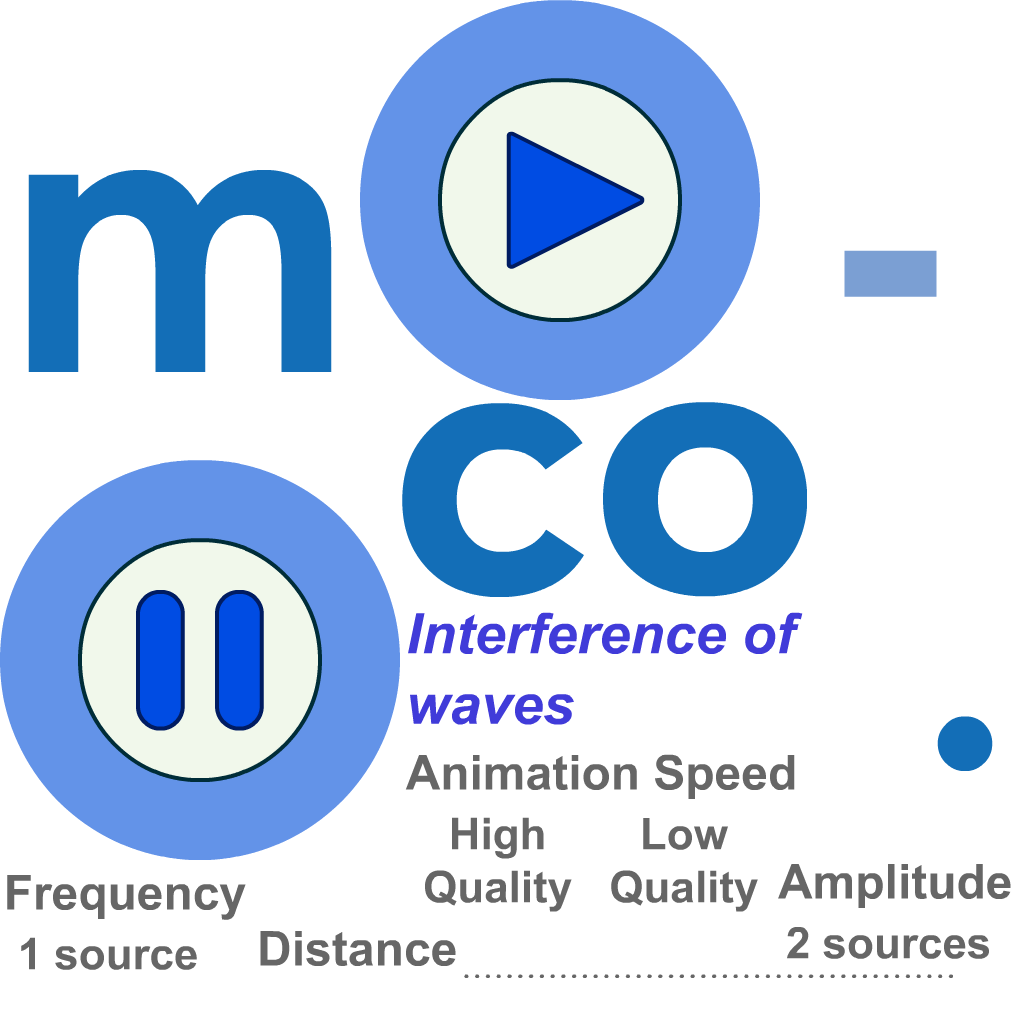
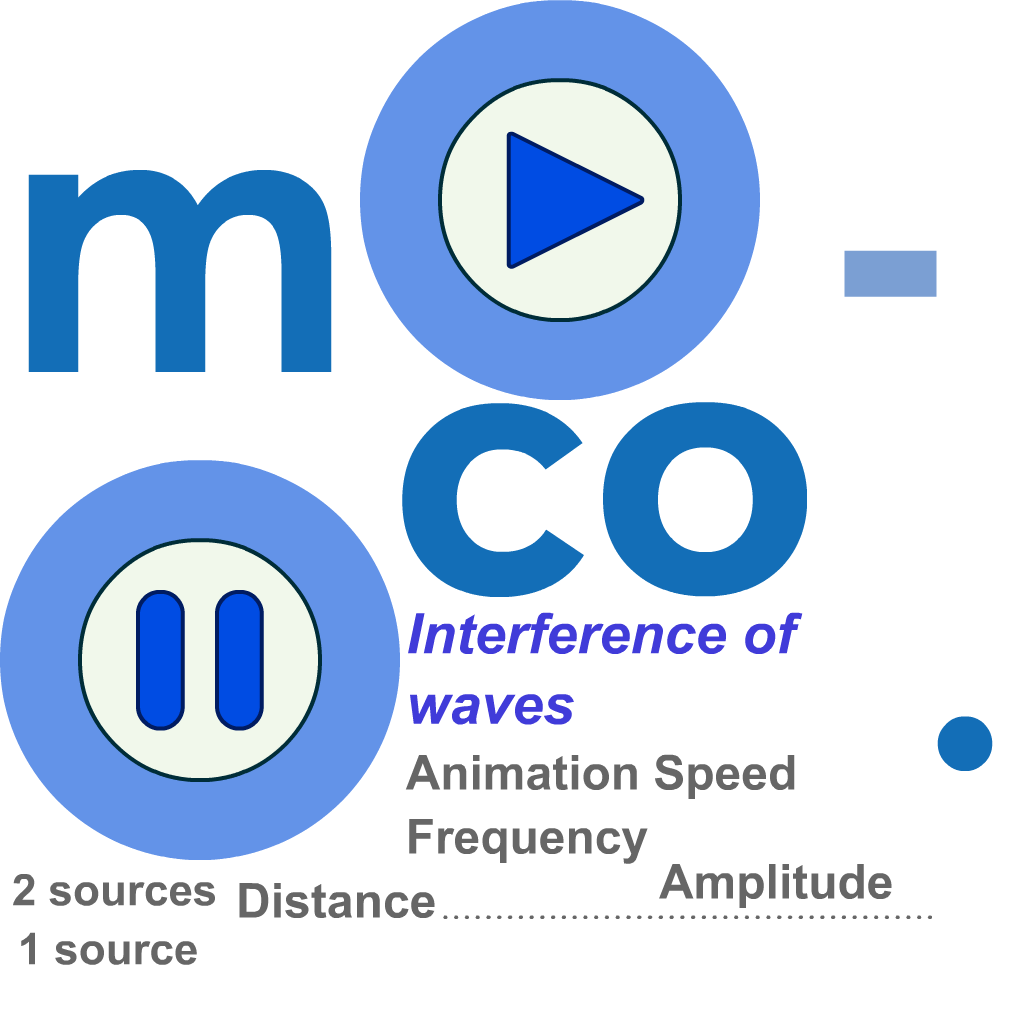
2023-07-28-16-19

Changed region(s): [[0.0, 0.7812, 1.0, 0.9688]]

diff --git a/interference.js b/interference.js
@@ -3,7 +3,7 @@
 var p; // shortcut to reference prototypes
 var lib={};var ss={};var img={};
 lib.ssMetadata = [
-		{name:"interference_atlas_1", frames: [[0,460,400,400],[360,0,400,400],[909,460,113,389],[402,402,405,195],[809,0,164,458],[0,0,358,458],[464,974,489,4],[402,599,505,141],[402,742,400,62],[0,926,217,57],[774,915,230,57],[402,806,192,110],[596,806,176,110],[774,851,243,62],[0,862,251,62],[253,918,209,62]]}
+		{name:"interference_atlas_1", frames: [[0,460,400,400],[360,0,400,400],[909,460,113,389],[402,402,405,195],[809,0,164,458],[0,0,358,458],[443,915,489,4],[402,599,505,141],[402,742,400,62],[0,921,217,57],[0,862,230,57],[655,851,243,62],[402,806,251,62],[232,870,209,62]]}
 ];
 
 
@@ -110,37 +110,23 @@ p.nominalBounds = new cjs.Rectangle(0,0,3439,924);
 
 
 
-(lib.CachedBmp_5 = function() {
+(lib.CachedBmp_3 = function() {
 	this.initialize(ss["interference_atlas_1"]);
 	this.gotoAndStop(11);
 }).prototype = p = new cjs.Sprite();
 
 
 
-(lib.CachedBmp_4 = function() {
+(lib.CachedBmp_2 = function() {
 	this.initialize(ss["interference_atlas_1"]);
 	this.gotoAndStop(12);
 }).prototype = p = new cjs.Sprite();
 
 
 
-(lib.CachedBmp_3 = function() {
-	this.initialize(ss["interference_atlas_1"]);
-	this.gotoAndStop(13);
-}).prototype = p = new cjs.Sprite();
-
-
-
-(lib.CachedBmp_2 = function() {
-	this.initialize(ss["interference_atlas_1"]);
-	this.gotoAndStop(14);
-}).prototype = p = new cjs.Sprite();
-
-
-
 (lib.CachedBmp_1 = function() {
 	this.initialize(ss["interference_atlas_1"]);
-	this.gotoAndStop(15);
+	this.gotoAndStop(13);
 }).prototype = p = new cjs.Sprite();
 // helper functions:
 
@@ -235,26 +221,26 @@ if (reversed == null) { reversed = false; }
 
 	// Layer_1
 	this.shape = new cjs.Shape();
[1 lines of base64/hex data omitted]
-	this.shape.setTransform(-19.449,-9.825,0.788,1.0556);
+	this.shape.graphics.f().s("#666666").ss(1,1,1).p("ABoAAQAAArgeAfQgfAegrAAQgqAAgfgeQgegfAAgrQAAgqAegfQAfgeAqAAQArAAAfAeQAeAfAAAqg");
+	this.shape.setTransform(-10.0098,3.9948,0.9615,0.9615);
 
 	this.shape_1 = new cjs.Shape();
-	this.shape_1.graphics.lf(["#FFFFFF","#999999","#FFFFFF"],[0,0.502,1],0,-10.9,0,11).s().p("AkXBaQgfAAgWgWQgWgWAAgfIAAgdQAAgfAWgWQAWgWAfAAIH9AAQAJAAAIACQAJgCAKAAQAlAAAaAaQAaAbAAAkQAAAlgaAZQgaAbglAAIgRgBQgJACgKAAg");
-	this.shape_1.setTransform(-19.449,-9.825,0.788,1.0556);
+	this.shape_1.graphics.rf(["#999999","#CCCCCC","#F8F8F8"],[0,0.471,1],0,0,0,0,0,10.5).s().p("AhJBJQgegeAAgrQAAgqAegeQAfgfAqAAQArAAAeAfQAfAeAAAqQAAArgfAeQgeAfgrAAQgqAAgfgfg");
+	this.shape_1.setTransform(-10.0098,3.9948,0.9615,0.9615);
 
 	this.shape_2 = new cjs.Shape();
[1 lines of base64/hex data omitted]
-	this.shape_2.setTransform(0,-6.3);
[1 lines of base64/hex data omitted]
+	this.shape_2.setTransform(-27.999,3.9755,0.788,0.8333);
 
 	this.shape_3 = new cjs.Shape();
[1 lines of base64/hex data omitted]
-	this.shape_3.setTransform(0,-6.3);
+	this.shape_3.graphics.lf(["#FFFFFF","#999999","#FFFFFF"],[0,0.502,1],0,-10.9,0,11).s().p("AkXBaQgfAAgWgWQgWgWAAgfIAAgdQAAgfAWgWQAWgWAfAAIH9AAQAJAAAIACQAJgCAKAAQAlAAAaAaQAaAbAAAkQAAAlgaAZQgaAbglAAIgRgBQgJACgKAAg");
+	this.shape_3.setTransform(-27.999,3.9755,0.788,0.8333);
 
 	this.timeline.addTween(cjs.Tween.get({}).to({state:[{t:this.shape_3},{t:this.shape_2},{t:this.shape_1},{t:this.shape}]}).wait(1));
 
 	this._renderFirstFrame();
 
-}).prototype = getMCSymbolPrototype(lib.Source, new cjs.Rectangle(-48.4,-20.3,58.4,27.6), null);
+}).prototype = getMCSymbolPrototype(lib.Source, new cjs.Rectangle(-57,-7,58,22), null);
 
 
 (lib.sliderDot = function(mode,startPosition,loop,reversed) {
@@ -582,83 +568,67 @@ if (reversed == null) { reversed = false; }
 
 	// root
 	this.instance = new lib.CachedBmp_19();
-	this.instance.setTransform(496.85,208.8,0.5,0.5);
+	this.instance.setTransform(496.85,223.85,0.5,0.5);
 
 	this.sliderAnimSpeed = new lib.Slider();
 	this.sliderAnimSpeed.name = "sliderAnimSpeed";
-	this.sliderAnimSpeed.setTransform(596.9,186.3);
+	this.sliderAnimSpeed.setTransform(596.9,201.35);
 
 	this.instance_1 = new lib.CachedBmp_7();
-	this.instance_1.setTransform(744.9,347.5,0.5,0.5);
+	this.instance_1.setTransform(478.85,131.5,0.5,0.5);
 
 	this.instance_2 = new lib.CachedBmp_6();
-	this.instance_2.setTransform(869.15,347.5,0.5,0.5);
+	this.instance_2.setTransform(603.1,131.5,0.5,0.5);
 
 	this.radBtn2s = new lib.radioBtn();
 	this.radBtn2s.name = "radBtn2s";
-	this.radBtn2s.setTransform(926.7,314.8);
+	this.radBtn2s.setTransform(660.65,105.05);
 	new cjs.ButtonHelper(this.radBtn2s, 0, 1, 1);
 
 	this.radBtn1s = new lib.radioBtn();
 	this.radBtn1s.name = "radBtn1s";
-	this.radBtn1s.setTransform(799.25,314.8);
+	this.radBtn1s.setTransform(533.2,105.05);
 	new cjs.ButtonHelper(this.radBtn1s, 0, 1, 1);
 
-	this.instance_3 = new lib.CachedBmp_5();
-	this.instance_3.setTransform(751.2,507.35,0.5,0.5);
+	this.instance_3 = new lib.CachedBmp_3();
+	this.instance_3.setTransform(536.15,546.9,0.5,0.5);
 
-	this.instance_4 = new lib.CachedBmp_4();
-	this.instance_4.setTransform(882.75,507.35,0.5,0.5);
+	this.instance_4 = new lib.CachedBmp_2();
+	this.instance_4.setTransform(534.15,439.25,0.5,0.5);
 
-	this.radBtnLowQ = new lib.radioBtn();
-	this.radBtnLowQ.name = "radBtnLowQ";
-	this.radBtnLowQ.setTransform(926.7,470.5);
-	new cjs.ButtonHelper(this.radBtnLowQ, 0, 1, 1);
-
-	this.radBtnHighQ = new lib.radioBtn();
-	this.radBtnHighQ.name = "radBtnHighQ";
-	this.radBtnHighQ.setTransform(799.25,472.5);
-	new cjs.ButtonHelper(this.radBtnHighQ, 0, 1, 1);
-
-	this.instance_5 = new lib.CachedBmp_3();
-	this.instance_5.setTransform(536.15,531.85,0.5,0.5);
-
-	this.instance_6 = new lib.CachedBmp_2();
-	this.instance_6.setTransform(534.15,424.2,0.5,0.5);
-
-	this.instance_7 = new lib.CachedBmp_1();
-	this.instance_7.setTransform(544.8,316.5,0.5,0.5);
+	this.instance_5 = new lib.CachedBmp_1();
+	this.instance_5.setTransform(544.8,331.55,0.5,0.5);
 
 	this.sliderAmp = new lib.Slider();
 	this.sliderAmp.name = "sliderAmp";
-	this.sliderAmp.setTransform(596.9,509.8);
+	this.sliderAmp.setTransform(596.9,524.85);
 
 	this.sliderDistance = new lib.Slider();
 	this.sliderDistance.name = "sliderDistance";
-	this.sliderDistance.setTransform(596.9,294.1);
+	this.sliderDistance.setTransform(596.9,309.15);
 
 	this.sliderFreq = new lib.Slider();
 	this.sliderFreq.name = "sliderFreq";
-	this.sliderFreq.setTransform(596.9,401.9);
+	this.sliderFreq.setTransform(596.9,416.95);
 
 	this.container = new lib.Container();
 	this.container.name = "container";
 	this.container.setTransform(83.9,104.55);
 
-	this.instance_8 = new lib.Header();
-	this.instance_8.setTransform(448.6,35.8,1,1,0,0,0,448.6,35.8);
+	this.instance_6 = new lib.Header();
+	this.instance_6.setTransform(448.6,35.8,1,1,0,0,0,448.6,35.8);
 
 	this.playstop = new lib.PlayStop();
 	this.playstop.name = "playstop";
-	this.playstop.setTransform(819.15,145.9);
+	this.playstop.setTransform(810.5,154.55);
 	new cjs.ButtonHelper(this.playstop, 0, 1, 2, false, new lib.PlayStop(), 3);
 
-	this.timeline.addTween(cjs.Tween.get({}).to({state:[{t:this.playstop},{t:this.instance_8},{t:this.container},{t:this.sliderFreq},{t:this.sliderDistance},{t:this.sliderAmp},{t:this.instance_7},{t:this.instance_6},{t:this.instance_5},{t:this.radBtnHighQ},{t:this.radBtnLowQ},{t:this.instance_4},{t:this.instance_3},{t:this.radBtn1s},{t:this.radBtn2s},{t:this.instance_2},{t:this.instance_1},{t:this.sliderAnimSpeed},{t:this.instance}]}).wait(1));
+	this.timeline.addTween(cjs.Tween.get({}).to({state:[{t:this.playstop},{t:this.instance_6},{t:this.container},{t:this.sliderFreq},{t:this.sliderDistance},{t:this.sliderAmp},{t:this.instance_5},{t:this.instance_4},{t:this.instance_3},{t:this.radBtn1s},{t:this.radBtn2s},{t:this.instance_2},{t:this.instance_1},{t:this.sliderAnimSpeed},{t:this.instance}]}).wait(1));
 
 	this._renderFirstFrame();
 
 }).prototype = p = new lib.AnMovieClip();
-p.nominalBounds = new cjs.Rectangle(500,300,497.1,262.9);
+p.nominalBounds = new cjs.Rectangle(500,300,497.1,277.9);
 // library properties:
 lib.properties = {
 	id: 'DEF5A0A10E5D014494482595F5BD06E1',

diff --git a/simulation.js b/simulation.js
@@ -12,8 +12,6 @@ class Simulation {
     this.stopBtn = this.playstop.stopBtn;
     this.radBtn1s = this.root.radBtn1s;
     this.radBtn2s = this.root.radBtn2s;
-    this.radBtnHighQ = this.root.radBtnHighQ;
-    this.radBtnLowQ = this.root.radBtnLowQ;
     this.sliderAnimSpeed = this.root.sliderAnimSpeed;
     this.sliderDistance = this.root.sliderDistance;
     this.sliderFreq = this.root.sliderFreq;
@@ -32,8 +30,6 @@ class Simulation {
         waveSpace = this.container,
         radBtn1s = this.radBtn1s,
         radBtn2s = this.radBtn2s,
-        radBtnHighQ = this.radBtnHighQ,
-        radBtnLowQ = this.radBtnLowQ,
         sliderAnimSpeed = this.sliderAnimSpeed,
         sliderDistance = this.sliderDistance,
         sliderFreq = this.sliderFreq,
@@ -51,7 +47,6 @@ class Simulation {
         res = 10,
         playFlag = false,
         twoSourcesFlag = true,
-        lowResFlag = false,
         t = 0,
         t0 = 0,
         dt = 0,
@@ -63,13 +58,16 @@ class Simulation {
     s1.x = s2.x = centerX + 15;
     s1.y = centerY - distance / 2;
     s2.y = centerY + distance / 2;
-    container.addChild(s1,s2);
-    
+    if (twoSourcesFlag){
+      container.addChild(s1, s2);
+    } else {
+      container.addChild(s1);
+    }
+
     function draw() {
       if (playFlag){
         waveSpace.removeAllChildren();
         const g = new createjs.Graphics();  
-        res = 10 + 5 * lowResFlag;
         for (let x = centerX; x < width; x += res) {
           for (let y = 0; y < height; y += res) {
             t = createjs.Ticker.getTime() / 1000 - dt;
@@ -89,7 +87,12 @@ class Simulation {
         bg.filters = [blurFilter];
         bg.cache(0, 0, waveSpace.nominalBounds.width, waveSpace.nominalBounds.height);
         waveSpace.addChild(bg);
-        container.addChild(s1,s2);
+        if (twoSourcesFlag){
+          container.addChild(s1, s2);
+        } else {
+          container.addChild(s1);
+        }
+        
         requestAnimationFrame(draw);
       }
       console.log("distance:   " + distance);
@@ -124,27 +127,14 @@ class Simulation {
       this.dot.visible = true;
       radBtn2s.dot.visible = !this.dot.visible;
       twoSourcesFlag = false;
+      container.removeChild(s2);
     });
 
     radBtn2s.on("click", function(){
       this.dot.visible = true;
       radBtn1s.dot.visible = !this.dot.visible;
       twoSourcesFlag = true;
-    });
-
-    radBtnHighQ.dot.visible = true;
-    radBtnLowQ.dot.visible = false;
-
-    radBtnHighQ.on("click", function(){
-      this.dot.visible = true;
-      radBtnLowQ.dot.visible = !this.dot.visible;
-      lowResFlag = false;
-    });
-
-    radBtnLowQ.on("click", function(){
-      this.dot.visible = true;
-      radBtnHighQ.dot.visible = !this.dot.visible;
-      lowResFlag = true;
+      container.addChild(s1, s2);
     });
 
     sliderAnimSpeed.on("pressmove", function(){
@@ -167,7 +157,11 @@ class Simulation {
         distance = (pt.x + 75) / 160 * 450;
         s1.y = centerY - distance / 2;
         s2.y = centerY + distance / 2;
-        container.addChild(s1,s2);
+        if (twoSourcesFlag){
+          container.addChild(s1, s2);
+        } else {
+          container.addChild(s1);
+        }
       }
     });
 
